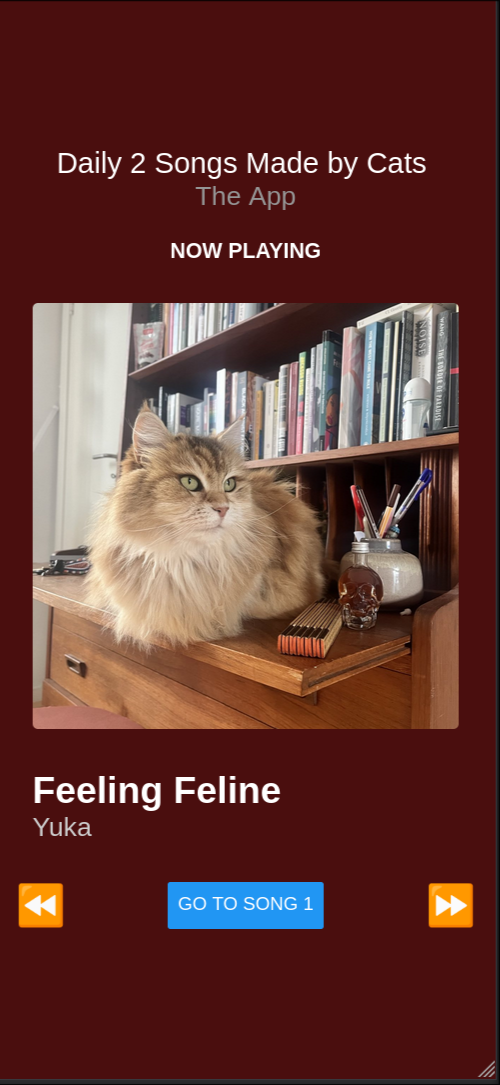
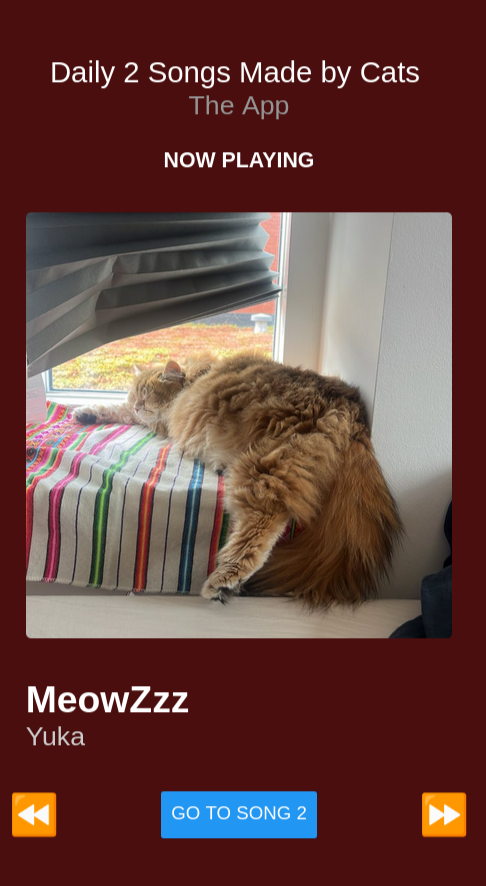
fixed screenshots in assignment 1 description

diff --git a/assignments/assignment1/description.md b/assignments/assignment1/description.md
@@ -4,7 +4,6 @@
 
 - This is an individual assignment
 - There will be no supervision for this assignment, only written feedback
-- 
 
 ### Dates
 
@@ -71,6 +70,7 @@ The one-screen application must include at least one of the following components
 This prototype images an app where two songs are streamed to the users daily. The user can change theoretically song and rewind the song. However, only the change song interaction is implemented. The interactive `<Button>` changes the following elements:
   - Album Cover 
   - Song Name
+
 
 ![button_state1](assets/imgs/button_state1.png)
 
